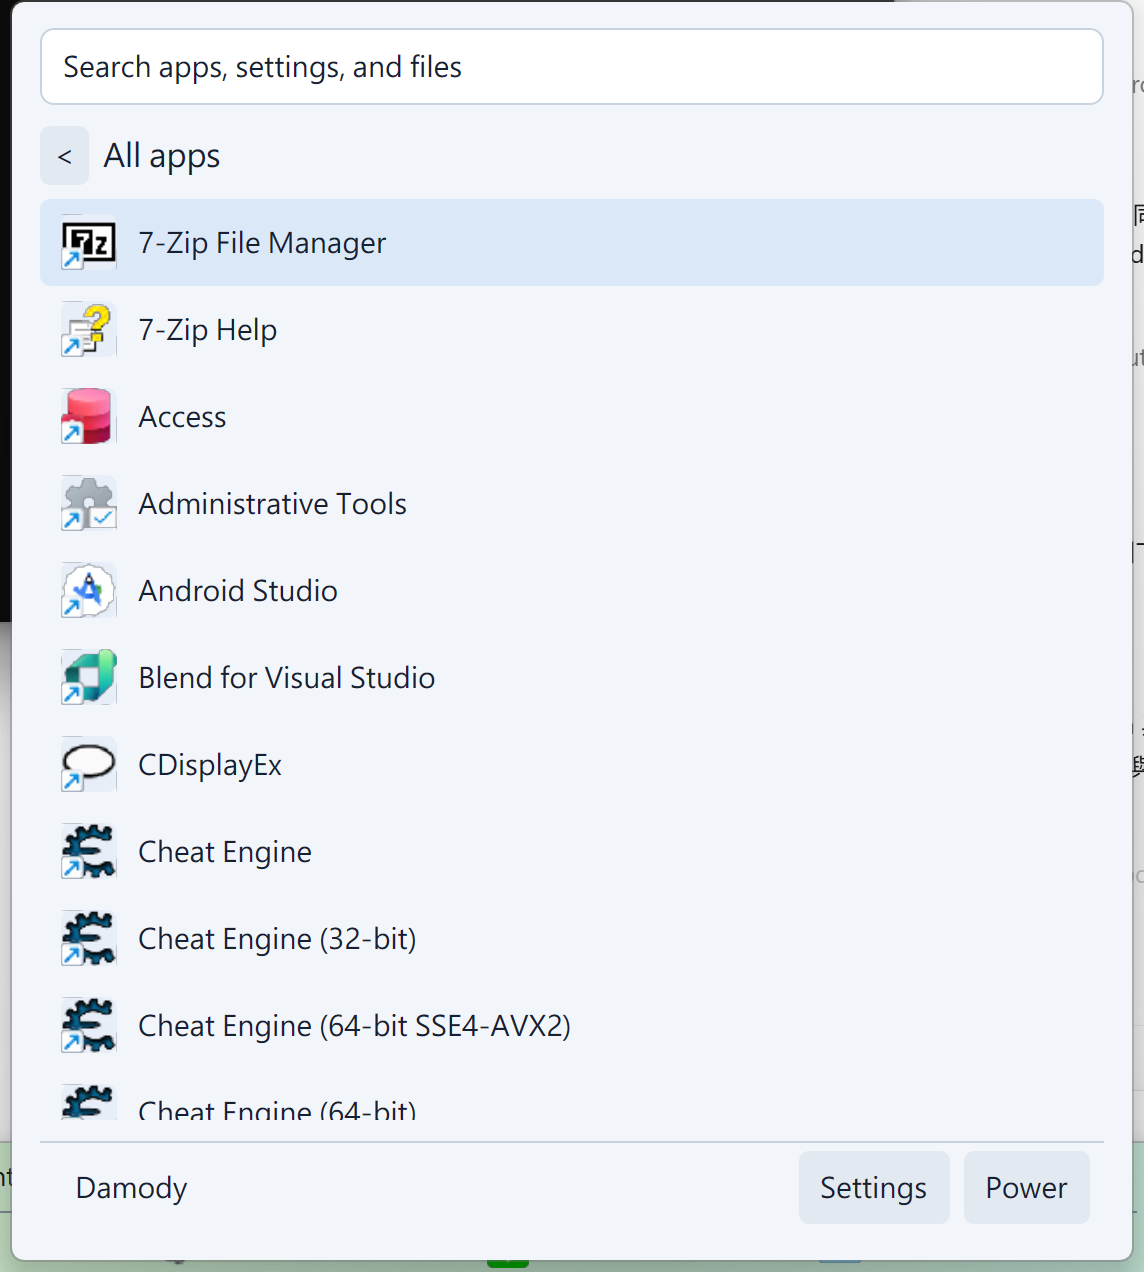
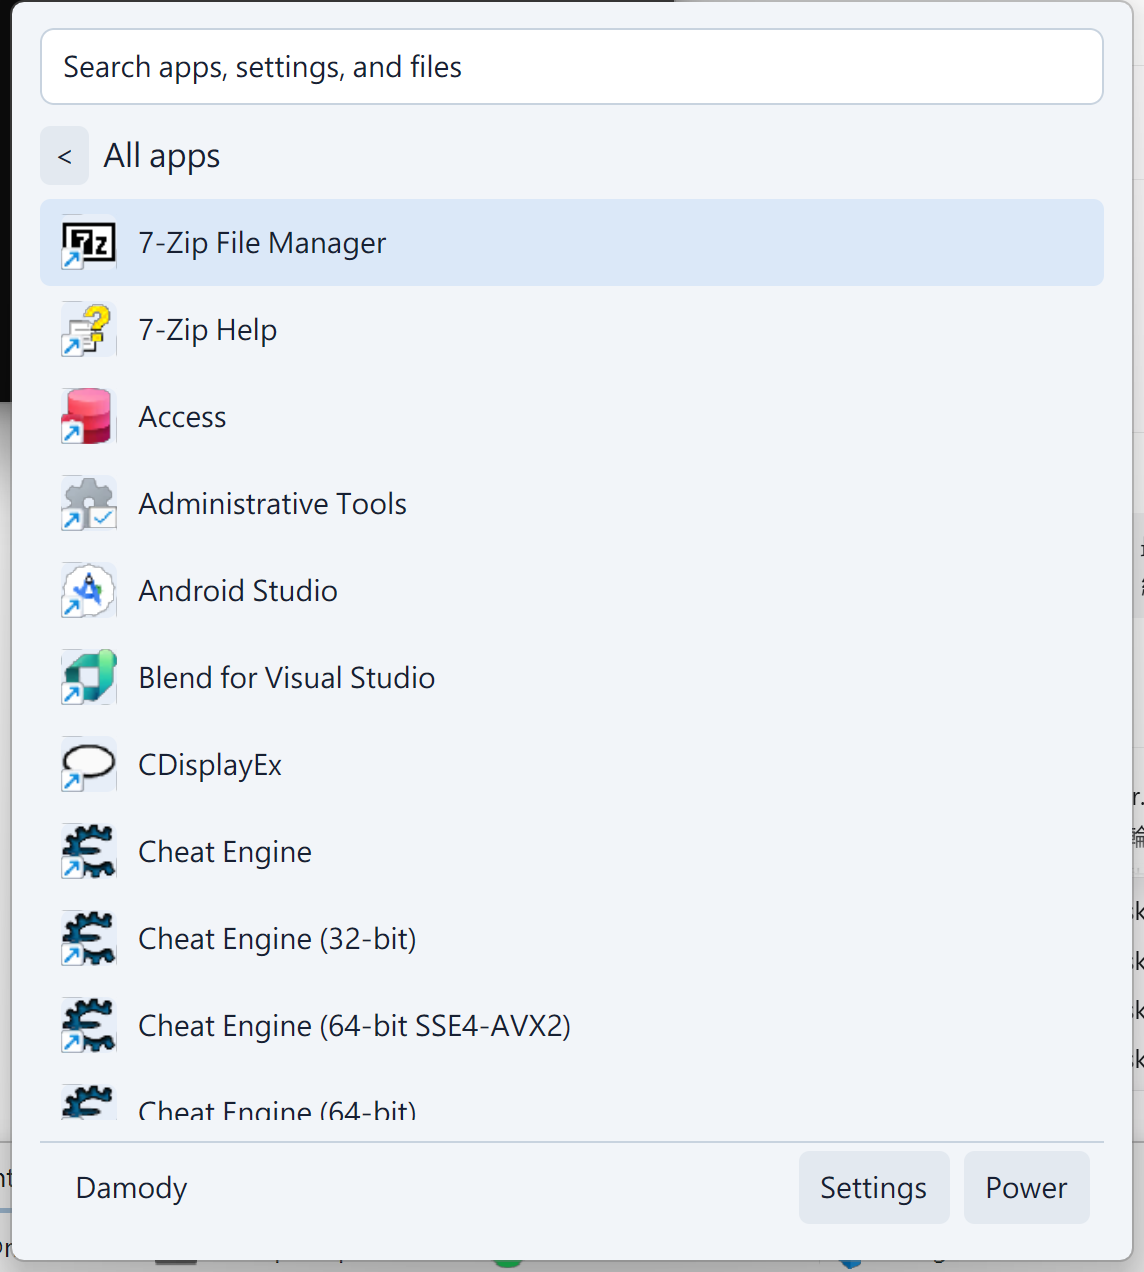
test: complete exclusive owned Start verification

diff --git a/openspec/changes/make-owned-start-exclusive/tasks.md b/openspec/changes/make-owned-start-exclusive/tasks.md
@@ -89,10 +89,10 @@
 **Gate／Evidence：** All change gates; `evidence/evidence-index.json`.
 **完成門檻：** Complete workspace commands exit zero, all artifacts hash correctly, every leaf has a unique record and strict validation passes.
 
-- [ ] 4.1.1 Run `cargo fmt --check` and complete locked/offline workspace check and tests.
-- [ ] 4.1.2 Run complete locked/offline clippy with warnings denied.
-- [ ] 4.1.3 Build release binaries and record product hashes plus headful artifact hashes.
-- [ ] 4.1.4 Create the unique task-linked evidence index and pass strict OpenSpec validation.
+- [x] 4.1.1 Run `cargo fmt --check` and complete locked/offline workspace check and tests.
+- [x] 4.1.2 Run complete locked/offline clippy with warnings denied.
+- [x] 4.1.3 Build release binaries and record product hashes plus headful artifact hashes.
+- [x] 4.1.4 Create the unique task-linked evidence index and pass strict OpenSpec validation.
 
 ### 4.2 Refresh installers
 
@@ -104,5 +104,5 @@
 **Gate／Evidence：** `G-OWNED-START`, `G-TRACE`; packaging record.
 **完成門檻：** Both UTF-8 NSIS builds exit zero and package the admitted SuperDesktop revision.
 
-- [ ] 4.2.1 Build and hash the standalone SuperDesktop installer without launching it.
-- [ ] 4.2.2 Build and hash the combined SuperExplorer installer with exact submodule admission.
+- [x] 4.2.1 Build and hash the standalone SuperDesktop installer without launching it.
+- [x] 4.2.2 Build and hash the combined SuperExplorer installer with exact submodule admission.
